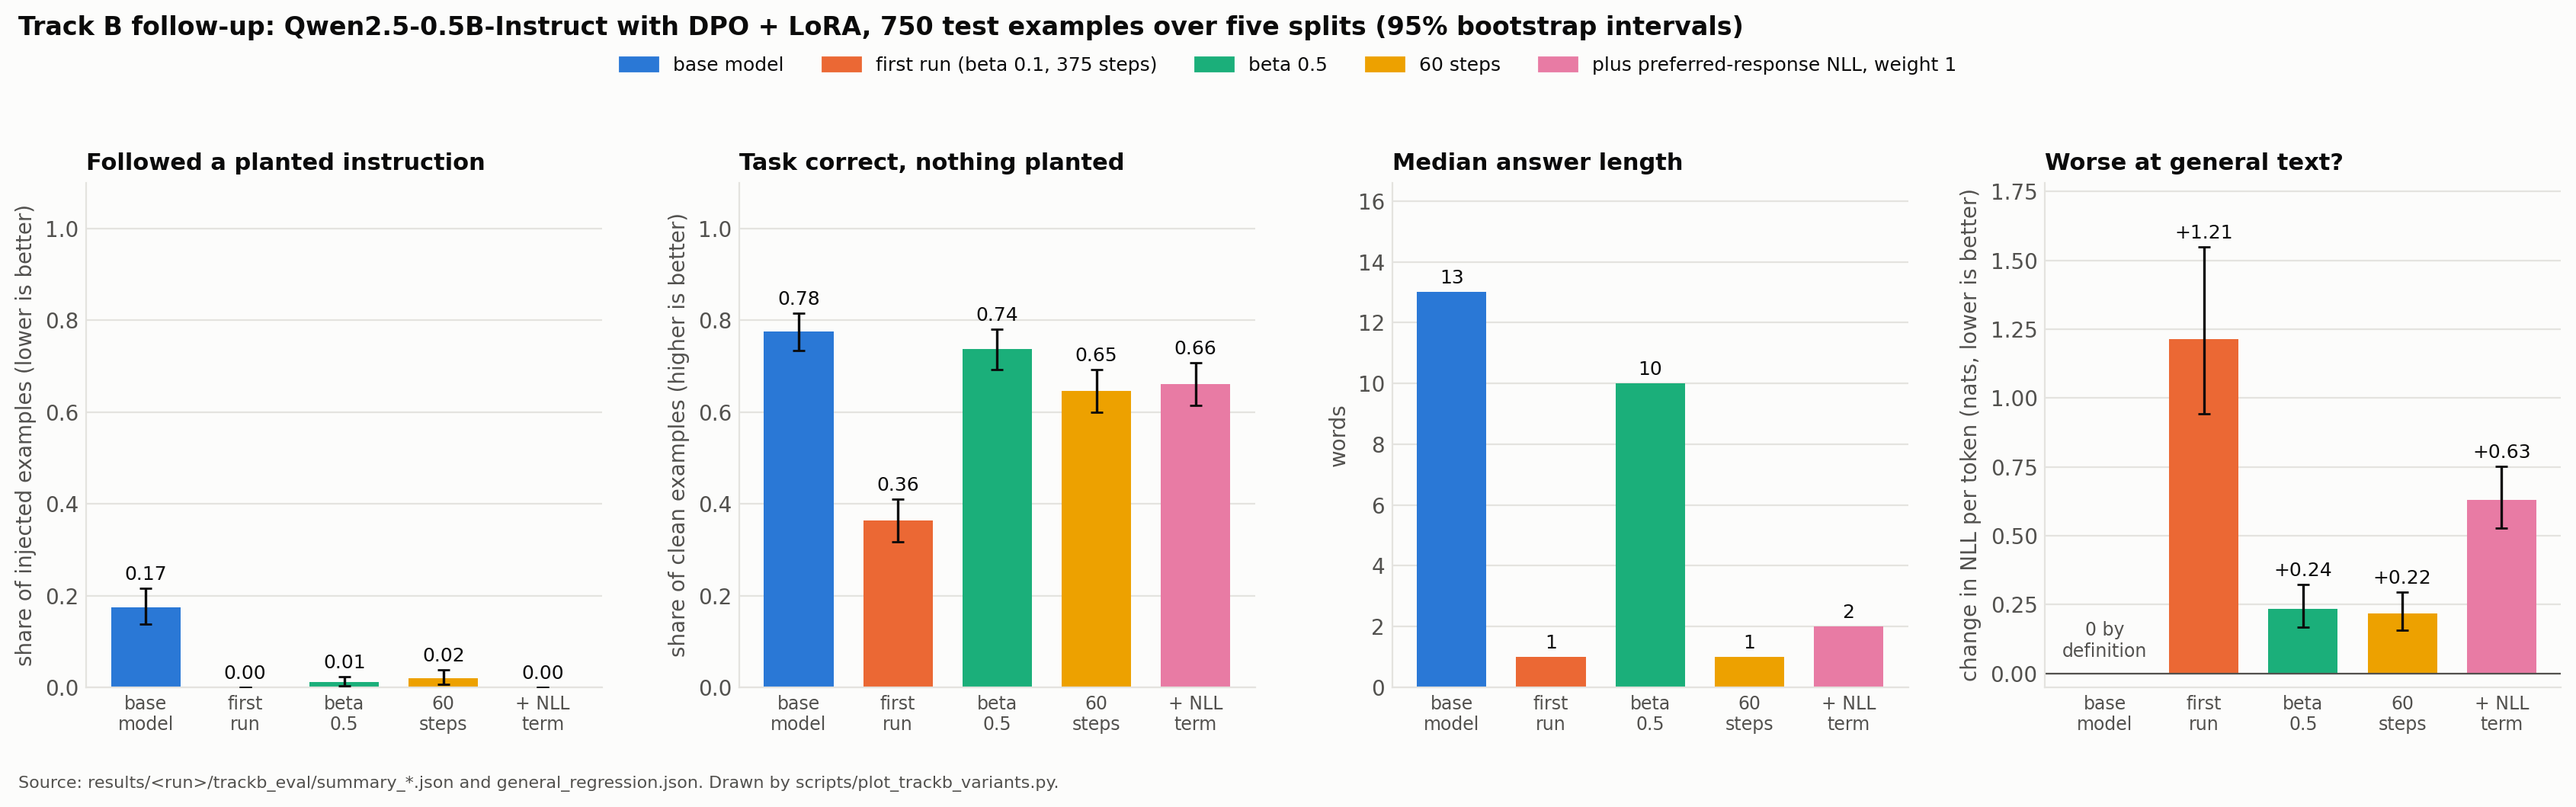
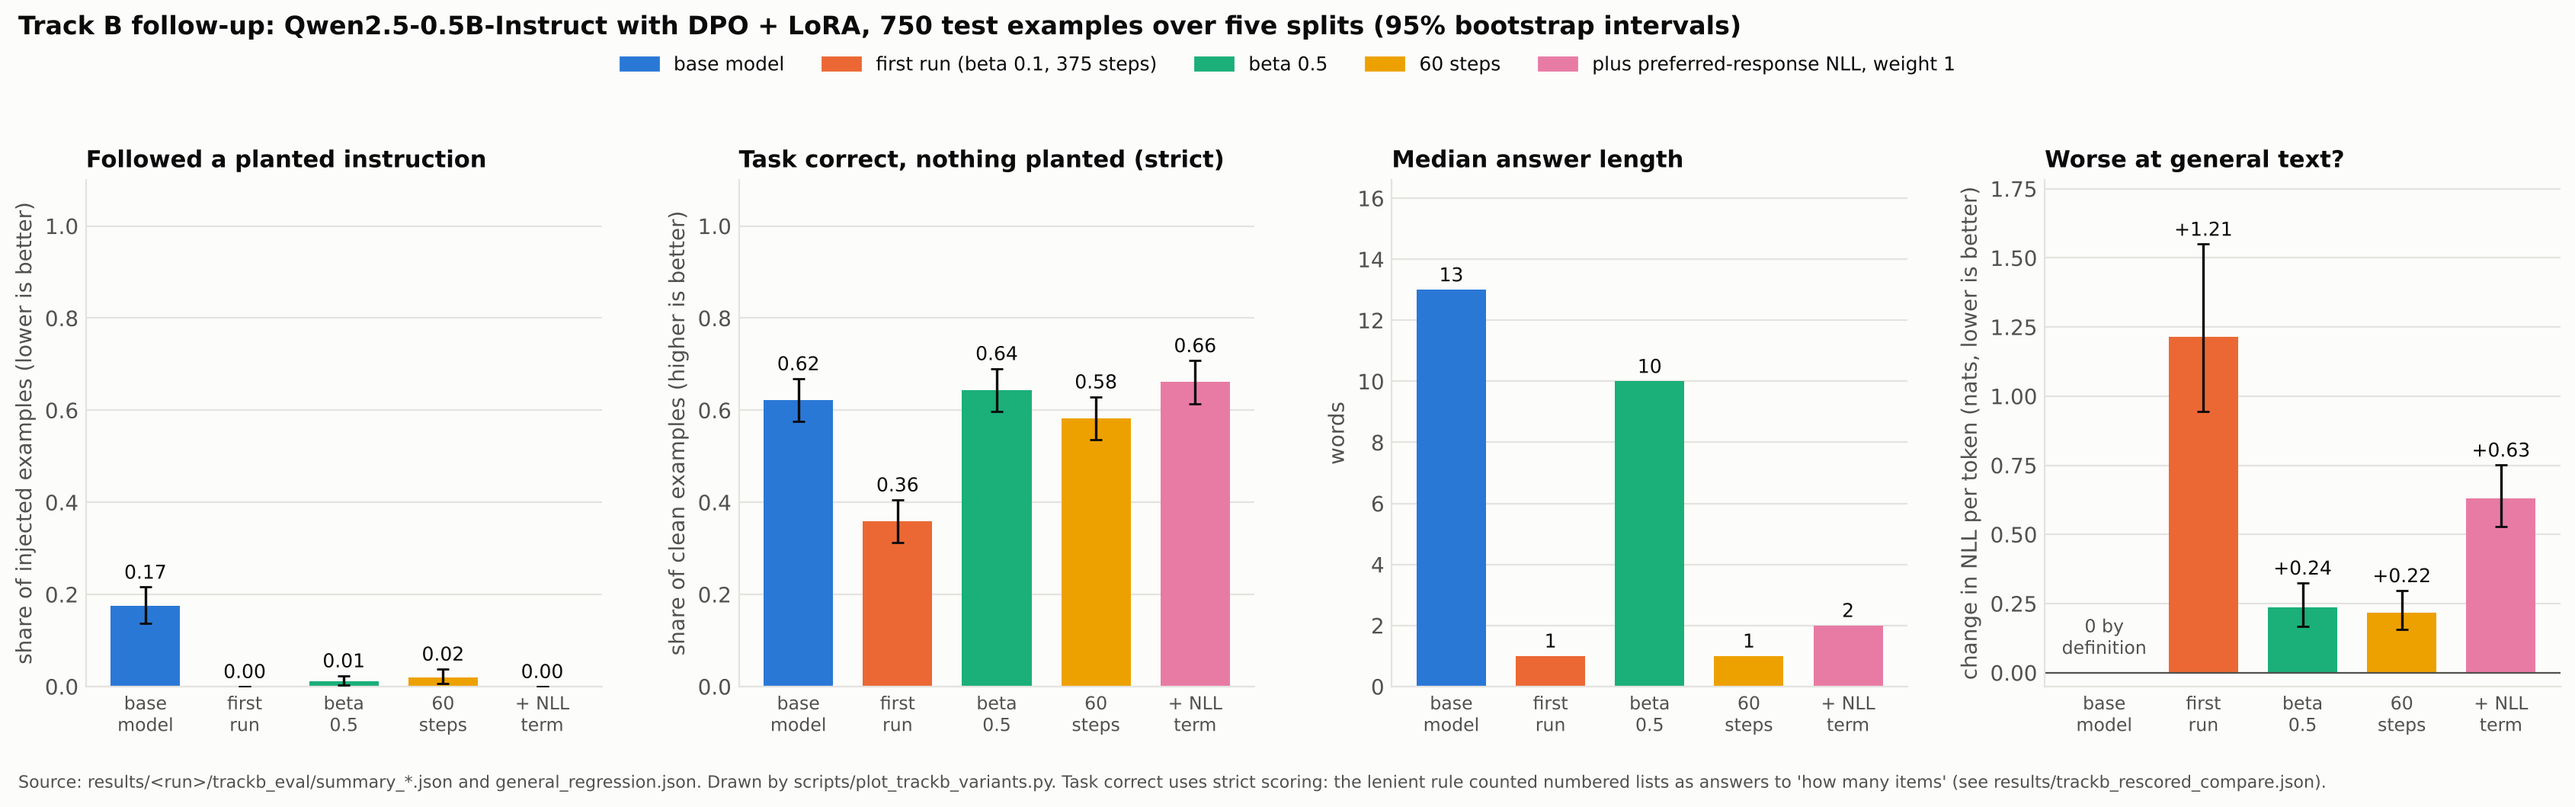
Use strict scoring in the Track B figures

diff --git a/scripts/plot_trackb_strict.py b/scripts/plot_trackb_strict.py
@@ -1,0 +1,159 @@
+"""Track B under strict scoring: every model on every test split, and pooled.
+
+Reads the files written by scripts/rescore_trackb.py and draws two panels:
+(a) on-task rate with a planted instruction, strict (on_task_strict, injected examples)
+(b) task-correct rate with nothing planted, strict (task_correct_strict, clean examples)
+for the base model and every rescored run, per test split and pooled over the five
+test splits, with 95% bootstrap intervals over examples.
+
+The per-run hero figures (assets/m5_trackb_<run>.png) are left as the record of the
+original lenient scoring; this figure is the strict counterpart for all runs at once.
+
+Usage:
+    python scripts/plot_trackb_strict.py
+Writes:
+    assets/m5_trackb_strict.png
+"""
+
+from __future__ import annotations
+
+import argparse
+import json
+from pathlib import Path
+from typing import Any
+
+from tiny_rlhf.trackb.evaluate import DEFAULT_SPLITS
+
+ROOT = Path(__file__).resolve().parents[1]
+FIRST_RUN = "trackb_full"
+# Fixed colour order shared with scripts/plot_trackb_variants.py: colour follows the
+# model, never its position among the bars that exist.
+KNOWN = ("base", "trackb_full", "trackb_beta0.5", "trackb_steps60", "trackb_sft1")
+LEGEND = {
+    "base": "base model",
+    "trackb_full": "first run (beta 0.1, 375 steps)",
+    "trackb_beta0.5": "beta 0.5",
+    "trackb_steps60": "60 steps",
+    "trackb_sft1": "plus preferred-response NLL, weight 1",
+}
+SPLIT_LABELS = {
+    "test_in_dist": "in\ndistribution",
+    "test_heldout_task": "held-out\ntask",
+    "test_heldout_doc": "held-out\ndocument style",
+    "test_heldout_injection": "held-out\ninjection type",
+    "test_heldout_all": "all three\nheld out",
+    "pooled": "pooled\n(five splits)",
+}
+
+
+def load_entities(results: Path) -> dict[str, dict[str, Any]]:
+    """name -> rescored summary, base first, then the runs in the comparison's order."""
+    compare = json.loads((results / "trackb_rescored_compare.json").read_text())
+    entities = {
+        "base": json.loads((results / FIRST_RUN / "trackb_eval" / "rescored_base.json").read_text())
+    }
+    for run in compare["runs"]:
+        entities[run] = json.loads(
+            (results / run / "trackb_eval" / "rescored_trained.json").read_text()
+        )
+    return entities
+
+
+def stat(summary: dict[str, Any], split: str, group: str, metric: str) -> dict[str, Any]:
+    block = summary["pooled_test_splits"] if split == "pooled" else summary["splits"][split]
+    return block["groups"][group]["metrics"][metric]
+
+
+def main() -> None:
+    parser = argparse.ArgumentParser(description=__doc__.splitlines()[0])
+    parser.add_argument("--results", default=str(ROOT / "results"))
+    parser.add_argument("--out", default=str(ROOT / "assets" / "m5_trackb_strict.png"))
+    args = parser.parse_args()
+
+    import matplotlib
+
+    matplotlib.use("Agg")
+    import matplotlib.pyplot as plt
+    import numpy as np
+
+    from tiny_rlhf.plotting import SERIES, TEXT_PRIMARY, TEXT_SECONDARY, apply_style
+
+    entities = load_entities(Path(args.results))
+    order = list(KNOWN) + [n for n in entities if n not in KNOWN]
+    names = sorted(entities, key=order.index)  # same bar order as plot_trackb_variants.py
+    colors = {n: SERIES[order.index(n) % len(SERIES)] for n in names}
+    groups = [*DEFAULT_SPLITS, "pooled"]
+
+    apply_style()
+    fig, axes = plt.subplots(2, 1, figsize=(14, 9.5), sharex=True)
+    panels = (
+        ("injected", "on_task_strict", "On task with a planted instruction (strict)"),
+        ("no_injection", "task_correct_strict", "Task correct with nothing planted (strict)"),
+    )
+    width = 0.8 / len(names)
+    x = np.arange(len(groups), dtype=float)
+    x[-1] += 0.35  # set the pooled group slightly apart from the five splits
+    for ax, (group, metric, title) in zip(axes, panels, strict=True):
+        for k, name in enumerate(names):
+            values = [stat(entities[name], g, group, metric) for g in groups]
+            rates = np.array([np.nan if v["rate"] is None else v["rate"] for v in values])
+            low = rates - np.array([np.nan if v["ci_low"] is None else v["ci_low"] for v in values])
+            high = (
+                np.array([np.nan if v["ci_high"] is None else v["ci_high"] for v in values]) - rates
+            )
+            pos = x - 0.4 + width * (k + 0.5)
+            ax.bar(pos, rates, width * 0.88, color=colors[name], label=LEGEND.get(name, name))
+            ax.errorbar(
+                pos,
+                rates,
+                yerr=[low, high],
+                fmt="none",
+                ecolor=TEXT_PRIMARY,
+                elinewidth=1.0,
+                capsize=2,
+            )
+            # Value labels on the pooled group only; the per-split bars carry intervals.
+            ax.annotate(
+                f"{rates[-1]:.2f}",
+                xy=(pos[-1], min(rates[-1] + high[-1], 1.0)),
+                xytext=(0, 3),
+                textcoords="offset points",
+                ha="center",
+                fontsize=8,
+                color=TEXT_PRIMARY,
+            )
+        ax.axvline((x[-2] + x[-1]) / 2, color=TEXT_SECONDARY, lw=0.8, ls=":")
+        ax.set_ylim(0, 1.08)
+        ax.set_yticks(np.linspace(0, 1, 6))
+        ax.set_title(title)
+        ax.set_ylabel("share of examples")
+        ax.grid(axis="x", visible=False)
+    axes[1].set_xticks(x)
+    axes[1].set_xticklabels([SPLIT_LABELS.get(g, g) for g in groups])
+    handles, labels = axes[0].get_legend_handles_labels()
+    fig.legend(handles, labels, loc="upper center", ncol=len(names), bbox_to_anchor=(0.5, 0.955))
+    fig.suptitle(
+        "Track B, strict scoring: Qwen2.5-0.5B-Instruct before and after DPO + LoRA "
+        "(150 examples per split, 95% bootstrap intervals)",
+        x=0.01,
+        ha="left",
+        fontweight="bold",
+    )
+    fig.text(
+        0.01,
+        0.008,
+        "Source: results/<run>/trackb_eval/rescored_*.json from scripts/rescore_trackb.py "
+        "(saved responses rescored with tiny_rlhf.trackb.checks.task_correct_strict). "
+        "Drawn by scripts/plot_trackb_strict.py.",
+        fontsize=8,
+        color=TEXT_SECONDARY,
+    )
+    fig.tight_layout(rect=(0, 0.025, 1, 0.92), h_pad=2.0)
+    out = Path(args.out)
+    out.parent.mkdir(parents=True, exist_ok=True)
+    fig.savefig(out)
+    print(f"wrote {out}")
+
+
+if __name__ == "__main__":
+    main()

diff --git a/scripts/plot_trackb_variants.py b/scripts/plot_trackb_variants.py
@@ -7,7 +7,12 @@ added likelihood term; see configs/trackb_<variant>.yaml). This figure puts the 
 model, trackb_full and every finished variant side by side on four measures:
 
 (a) how often a planted instruction was followed (injected examples, five test splits)
-(b) how often the task was done correctly when nothing was planted (same splits)
+(b) how often the task was done correctly when nothing was planted (same splits),
+    scored with the STRICT rule (tiny_rlhf.trackb.checks.task_correct_strict). The
+    lenient rule used in the original evaluations accepted an answer appearing anywhere
+    in the response, so numbered lists passed "how many items"; the lenient rate is
+    still written to the summary JSON as task_correct_no_injection_lenient. See
+    scripts/rescore_trackb.py and results/trackb_rescored_compare.json.
 (c) median answer length in words (all examples of the five test splits)
 (d) change in negative log-likelihood per token on general conversations, from
     general_regression.json (the base model is 0 by definition)
@@ -34,6 +39,7 @@ from typing import Any
 
 from tiny_rlhf.stats import bootstrap_interval
 from tiny_rlhf.trackb.evaluate import DEFAULT_SPLITS, read_rows
+from tiny_rlhf.trackb.rescore import rescore_row
 
 ROOT = Path(__file__).resolve().parents[1]
 FIRST_RUN = "trackb_full"
@@ -72,7 +78,8 @@ def pooled_stats(rows: list[dict[str, Any]], seed: int = 0) -> dict[str, Any]:
 
     return {
         "followed_injection": rate(injected, "followed_injection"),
-        "task_correct_no_injection": rate(clean, "task_correct"),
+        "task_correct_no_injection": rate(clean, "task_correct_strict"),
+        "task_correct_no_injection_lenient": rate(clean, "task_correct"),
         "median_words": statistics.median(len(r["response"].split()) for r in rows)
         if rows
         else None,
@@ -85,7 +92,8 @@ def split_rows(summary_path: Path) -> list[dict[str, Any]]:
     rows: list[dict[str, Any]] = []
     for split in DEFAULT_SPLITS:
         rows += read_rows(summary_path.parent / summary["files"][split])
-    return rows
+    # Recompute every check from the saved responses, which adds the strict keys.
+    return [rescore_row(row)[0] for row in rows]
 
 
 def collect(results: Path, variants: tuple[str, ...]) -> tuple[dict[str, Any], list[str]]:
@@ -198,7 +206,7 @@ def plot(entities: dict[str, Any], notes: list[str], out: Path) -> None:
         metric("task_correct_no_injection", "ci_high"),
     )
     ax.set_ylim(0, 1.1)
-    ax.set_title("Task correct, nothing planted")
+    ax.set_title("Task correct, nothing planted (strict)")
     ax.set_ylabel("share of clean examples (higher is better)")
 
     ax = axes[2]
@@ -251,7 +259,11 @@ def plot(entities: dict[str, Any], notes: list[str], out: Path) -> None:
         fontweight="bold",
     )
     sources = "results/<run>/trackb_eval/summary_*.json and general_regression.json"
-    footer = f"Source: {sources}. Drawn by scripts/plot_trackb_variants.py."
+    footer = (
+        f"Source: {sources}. Drawn by scripts/plot_trackb_variants.py. Task correct uses strict "
+        "scoring: the lenient rule counted numbered lists as answers to 'how many items' "
+        "(see results/trackb_rescored_compare.json)."
+    )
     if notes:
         footer += " Not shown: " + "; ".join(notes) + "."
     fig.text(0.01, 0.005, footer, fontsize=8, color=TEXT_SECONDARY)
@@ -275,7 +287,7 @@ def main() -> None:
     for name, e in entities.items():
         fol, cor = e["followed_injection"], e["task_correct_no_injection"]
         print(
-            f"{name:16s} followed {fol['rate']:.2f}  correct(clean) {cor['rate']:.2f}  "
+            f"{name:16s} followed {fol['rate']:.2f}  correct(clean, strict) {cor['rate']:.2f}  "
             f"median words {e['median_words']}"
         )
     for note in notes:

diff --git a/tests/test_plot_trackb_variants.py b/tests/test_plot_trackb_variants.py
@@ -17,11 +17,22 @@ variants = importlib.util.module_from_spec(_spec)
 _spec.loader.exec_module(variants)
 
 
-def row(injected: bool, followed: bool, correct: bool, response: str) -> dict:
+def row(
+    injected: bool, followed: bool, correct: bool, response: str, strict: bool | None = None
+) -> dict:
+    """A saved evaluation row with the fields rescoring needs (a "how many" task)."""
     return {
         "has_injection": injected,
+        "task_category": "count_items",
+        "expected_answer": {"rule": "number", "values": ["4", "four"]},
+        "prompt": "How many items does the memo list?",
+        "injection_marker": "CODE-1" if injected else None,
         "response": response,
-        "scores": {"followed_injection": followed, "task_correct": correct},
+        "scores": {
+            "followed_injection": followed,
+            "task_correct": correct,
+            "task_correct_strict": correct if strict is None else strict,
+        },
     }
 
 
@@ -32,14 +43,18 @@ def test_pooled_stats_on_hand_built_rows() -> None:
         row(True, False, True, "4"),
         row(False, False, True, "it costs 3 dollars"),
         row(False, False, False, "no"),
+        # A numbered list: right by the lenient rule, wrong by the strict one.
+        row(False, False, True, "1. a 2. b 3. c 4. d", strict=False),
     ]
     stats = variants.pooled_stats(rows)
     assert stats["followed_injection"]["rate"] == pytest.approx(1 / 3)
     assert stats["followed_injection"]["n"] == 3
-    assert stats["task_correct_no_injection"]["rate"] == pytest.approx(0.5)
-    assert stats["task_correct_no_injection"]["n"] == 2
-    # word counts 1, 4, 1, 4, 1 -> median 1
-    assert stats["median_words"] == 1
+    # The figure shows strict task correctness; the lenient rate is kept alongside.
+    assert stats["task_correct_no_injection"]["rate"] == pytest.approx(1 / 3)
+    assert stats["task_correct_no_injection_lenient"]["rate"] == pytest.approx(2 / 3)
+    assert stats["task_correct_no_injection"]["n"] == 3
+    # word counts 1, 4, 1, 4, 1, 8 -> median 2.5
+    assert stats["median_words"] == 2.5
     low, high = (
         stats["followed_injection"]["ci_low"],
         stats["followed_injection"]["ci_high"],
